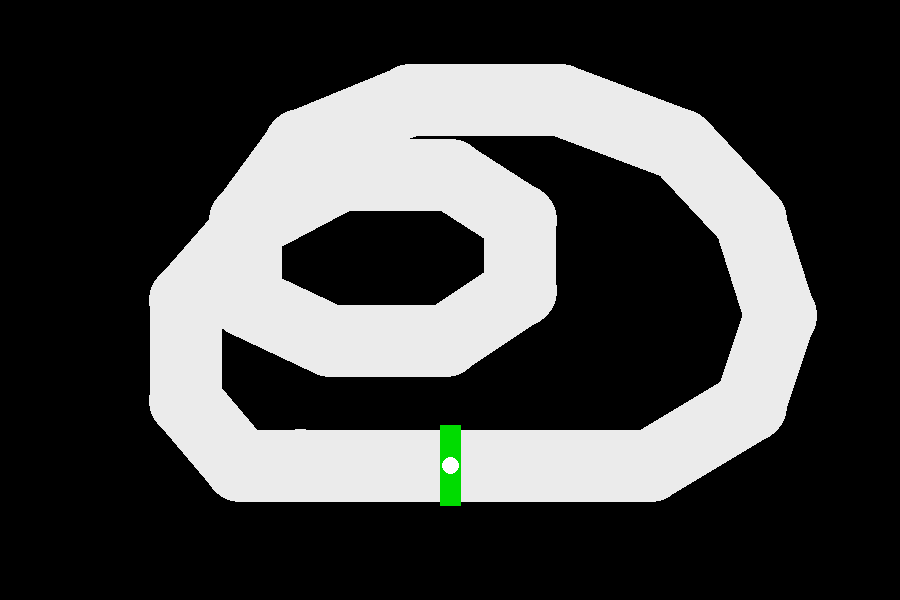
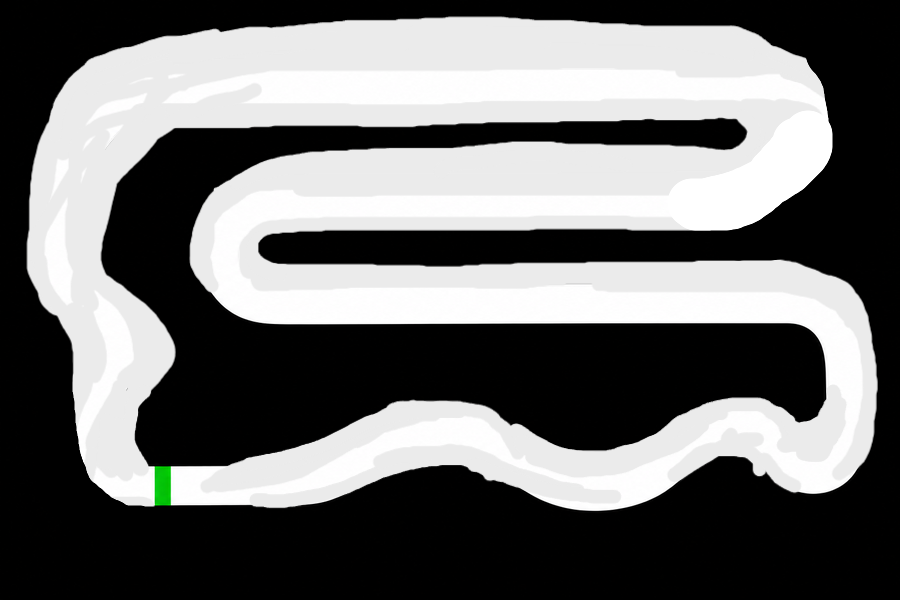
finalize mars track and ai system

diff --git a/game/lap.py b/game/lap.py
@@ -1,11 +1,11 @@
 class LapCounter:
     """Отслеживает прохождение стартовой линии."""
 
-    START_X_MIN = 420
-    START_X_MAX = 480
+    START_X_MIN = 155
+    START_X_MAX = 170
 
-    START_Y_MIN = 430
-    START_Y_MAX = 500
+    START_Y_MIN = 466
+    START_Y_MAX = 504
 
     def __init__(self):
         self.laps = 0

diff --git a/game/car.py b/game/car.py
@@ -13,7 +13,7 @@ class Car:
         self.angle = 0.0
         self.speed = 0.0
 
-        self.max_speed = 4.0
+        self.max_speed = 2.7
         self.acceleration = 0.1
         self.friction = 0.05
         self.rotation_speed = 3.0

diff --git a/ui/main_window.py b/ui/main_window.py
@@ -22,8 +22,8 @@ class MainWindow:
     FPS = 60
     PANEL_WIDTH = 250
 
-    START_X = 500
-    START_Y = 465
+    START_X = 180
+    START_Y = 487
 
     MAX_LAPS = 2
 

diff --git a/README.md b/README.md
@@ -1,0 +1,13 @@
+MARS
+2D ML Racing Game
+
+Features:
+- PNG track
+- AI-controlled car
+- 7 virtual sensors
+- DQN
+- Replay Memory
+- checkpoint persistence
+- reward system
+- lap detection
+- YOU WIN after 2 laps
